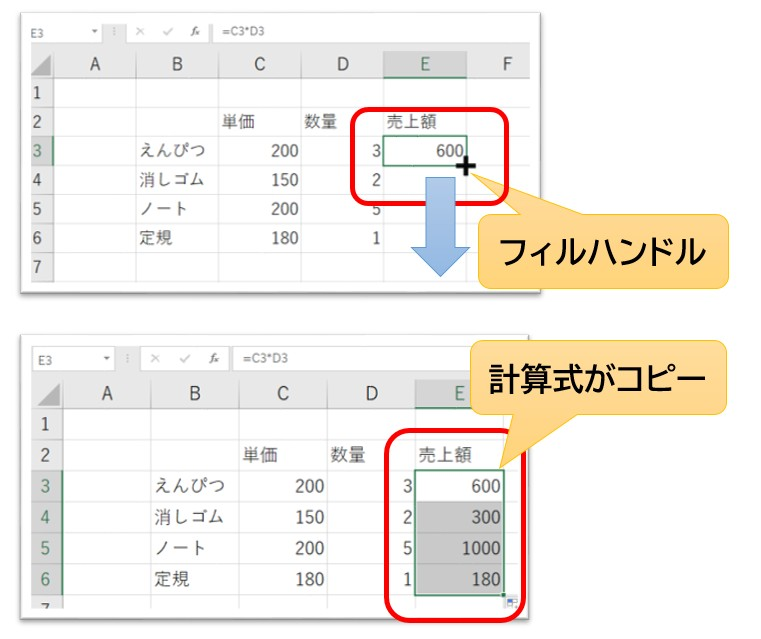
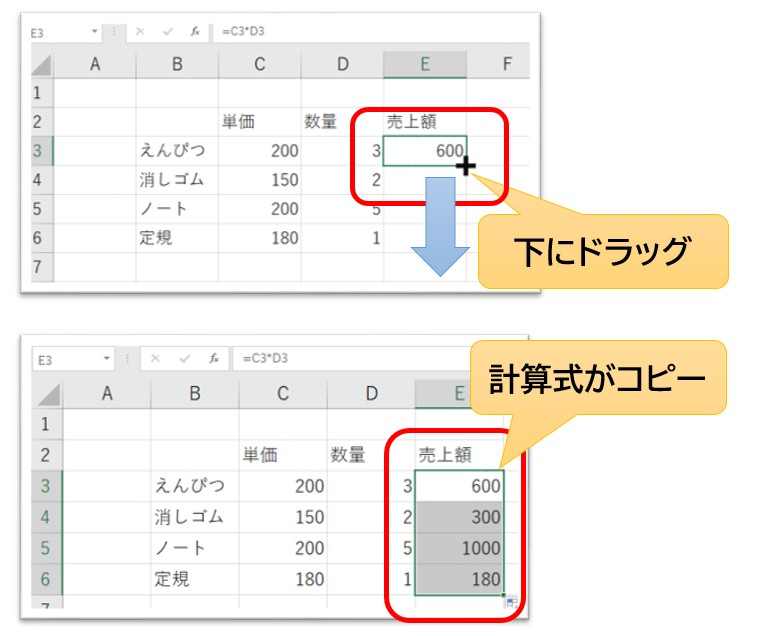
フィルハンドルとオートSUM

diff --git a/guide-excel-basics.html b/guide-excel-basics.html
@@ -297,21 +297,20 @@
                         <li><strong>連続データの作成：</strong> 「1、2、3……」といった連番や、日付、曜日などを自動で埋めることができます。</li>
                     </ul>
 
-                    <div class="instructor-advice">
-                        <b>💡 講師からのアドバイス：オートSUMボタン（Σ）の活用</b><br>
-                        最初は「＝SUM…」と手で入力するのは難しく感じるかもしれません。そんな時は、[ホーム]タブにある <strong>「Σ（オートSUM）」</strong> ボタンを押してみてください。Excelが自動で合計範囲を推測して数式を作ってくれます。まずはこのボタンを押すことから始めて、慣れてきたら自分でも数式を書いてみる、というステップで大丈夫ですよ。
-                    </div>
                     <h2>基本関数を使って計算を自動化しましょう</h2>
                     <p>数式をさらに便利にしたものが「関数（かんすう）」です。複雑な計算を、あらかじめ決められた「名前」で呼び出すことができます。事務職で使われる関数の多くは、これから紹介する基本の5種類でカバーできます。</p>
 
                     <div class="article-image article-image--window">
                         <img src="img/guide-excel-functions.jpg" alt="[ホーム]タブのオートSUM（Σ）ボタンとそのメニュー一覧">
-                        <p class="small-text">▲ [ホーム]タブの「Σ」ボタンから、よく使う関数をすぐに呼び出せます</p>
+                        <p class="small-text">▲ [ホーム]タブの「Σ」ボタンの右から、よく使う関数をすぐに呼び出せます</p>
                     </div>
 
                     <h3>SUM関数（サム：合計）</h3>
                     <p>仕事で最も使われる、基本中の基本となる関数です。売上集計、請求書、勤務表など、実務で合計を出さない場面はありません。「＝SUM(A1:A10)」のように、計算したい範囲の端と端を指定するだけで、一瞬で合計を算出できます。</p>
-
+                    <div class="instructor-advice">
+                        <b>💡 講師からのアドバイス：オートSUMボタン（Σ）の活用</b><br>
+                        「＝SUM…」と手で入力するのは難しく感じるかもしれません。そんな時は、[ホーム]タブにある <strong>「Σ（オートSUM）」</strong> ボタンを直接押してみてください。Excelが自動で合計範囲を推測して数式を作ってくれます。まずはこのボタンを押すことから始めて、慣れてきたら自分でも数式を書いてみる、というステップで大丈夫ですよ。
+                    </div>
                     <h3>AVERAGE関数（アベレージ：平均）</h3>
                     <p>データの傾向を分析する際に使用します。1日の平均売上や平均残業時間など、合計を個数で割るという手間をExcelが代行してくれます。</p>
 
